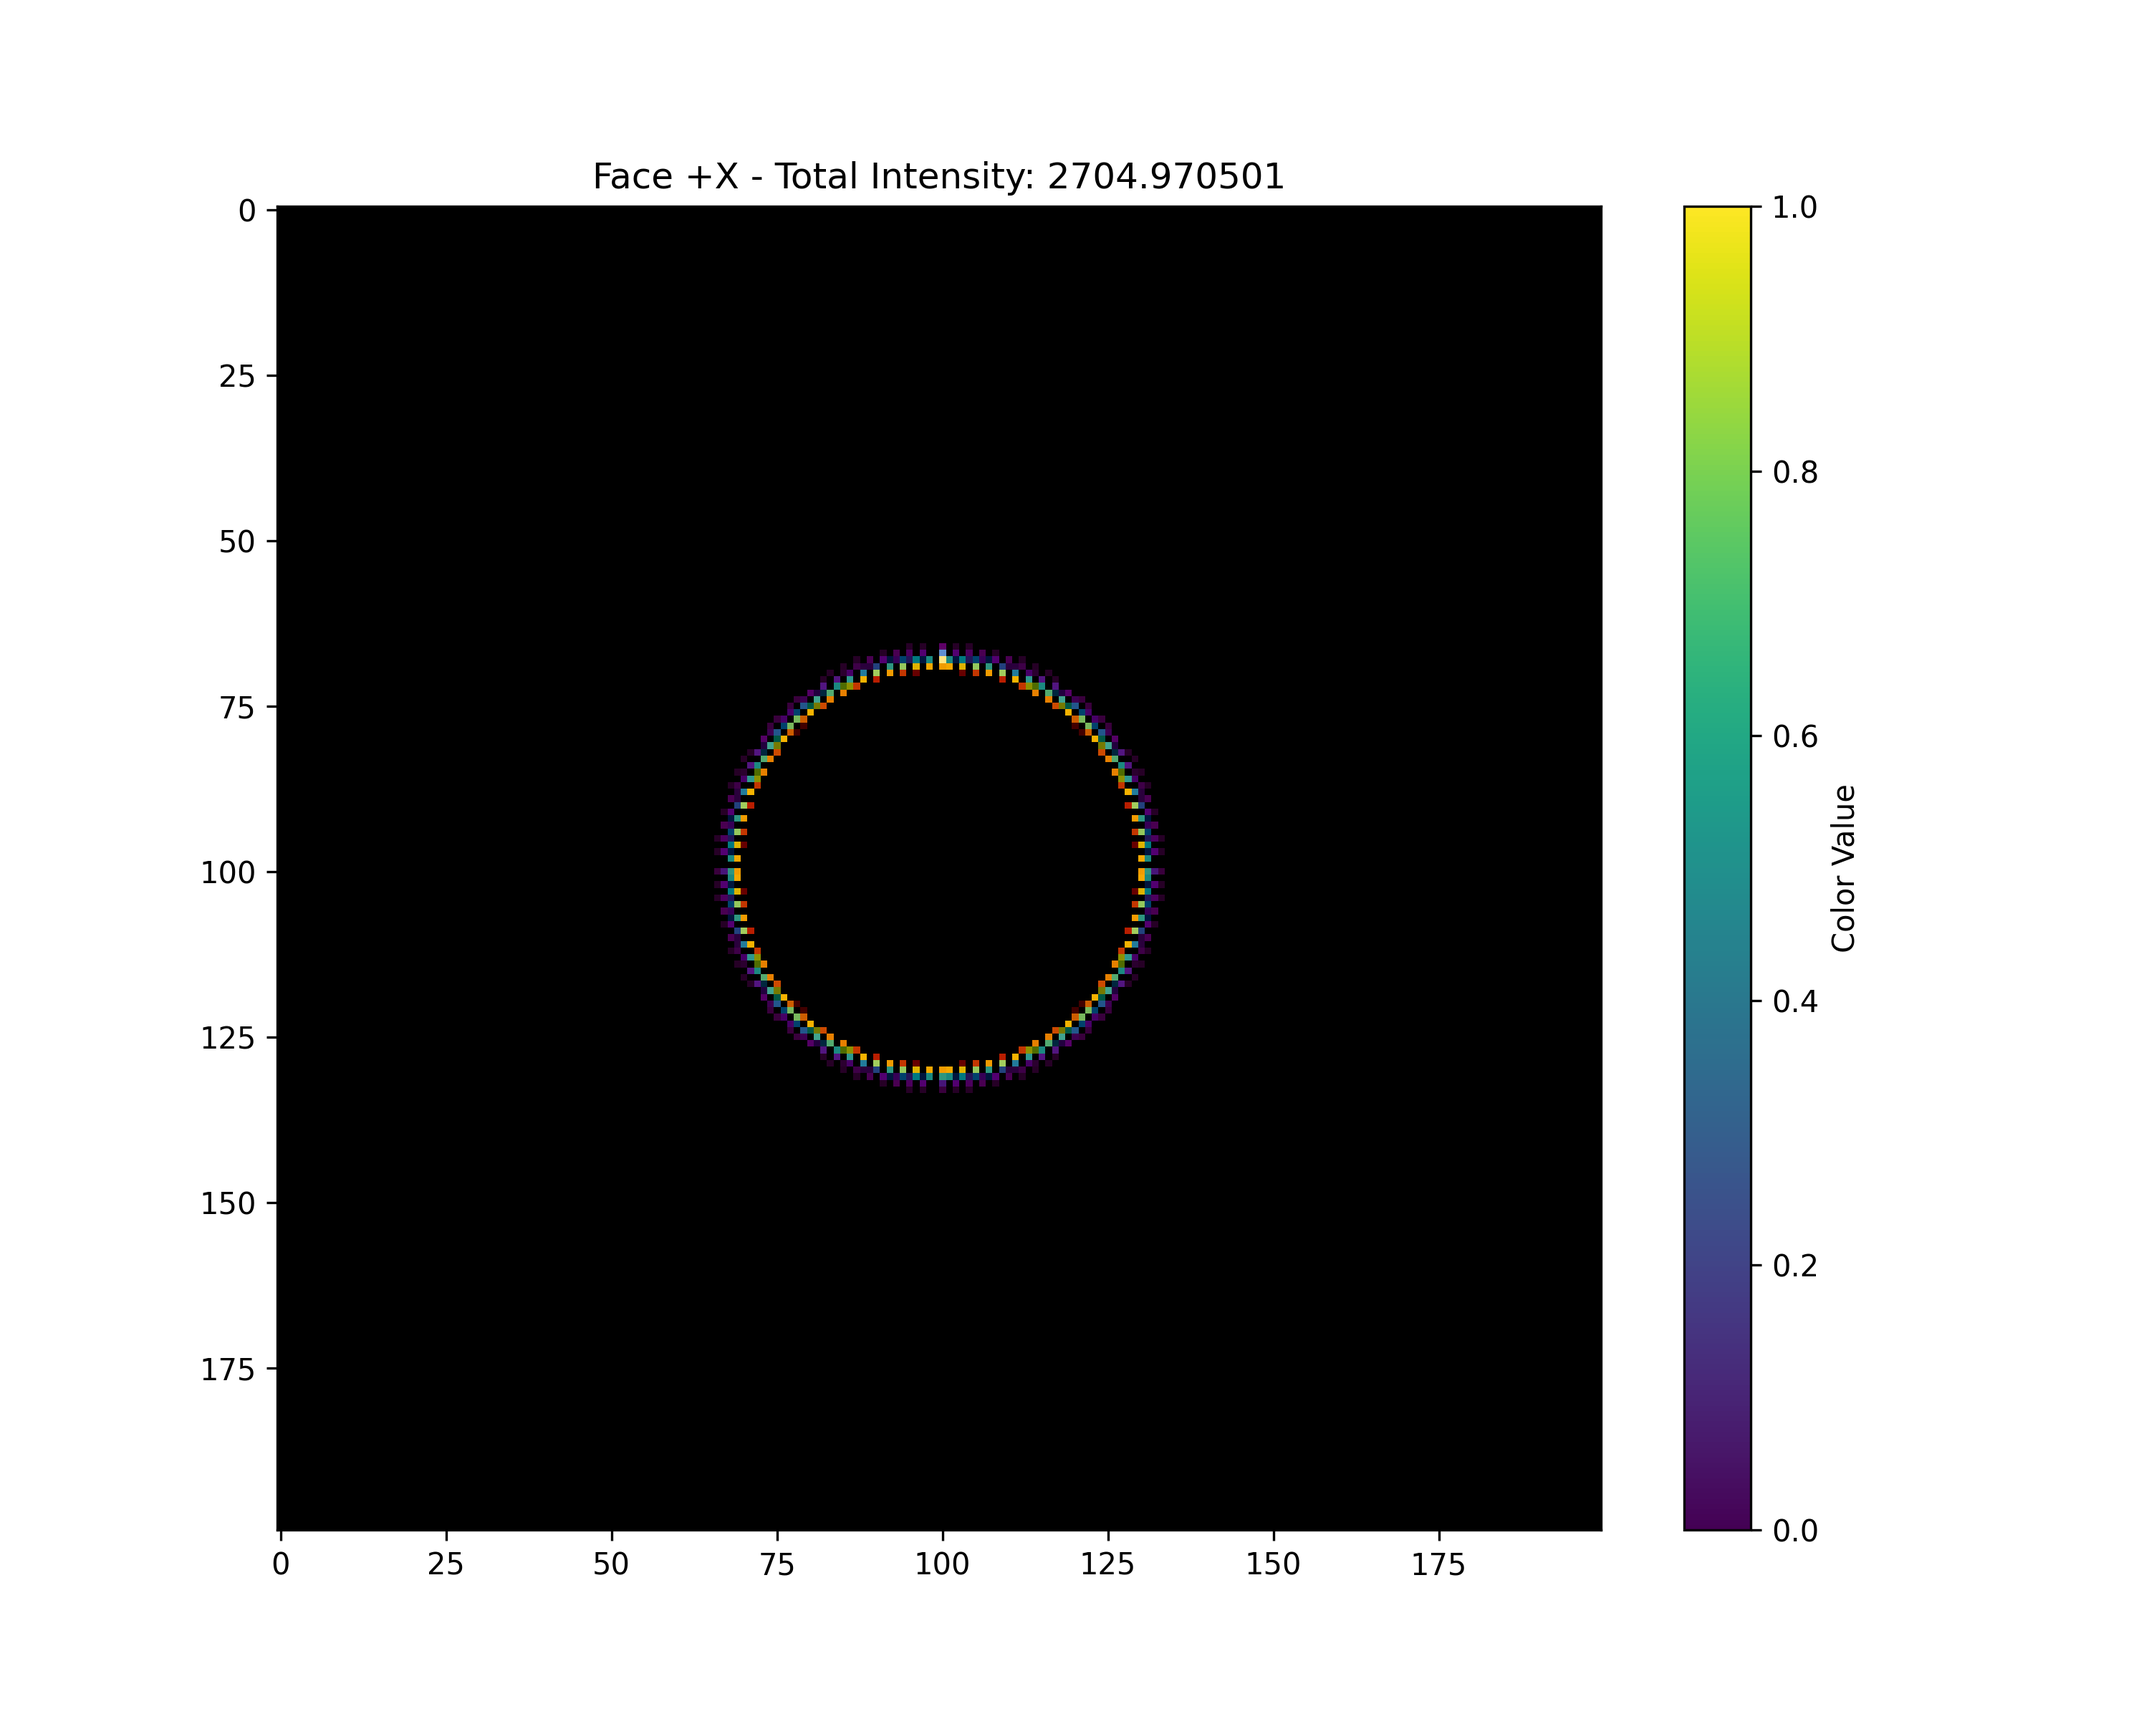
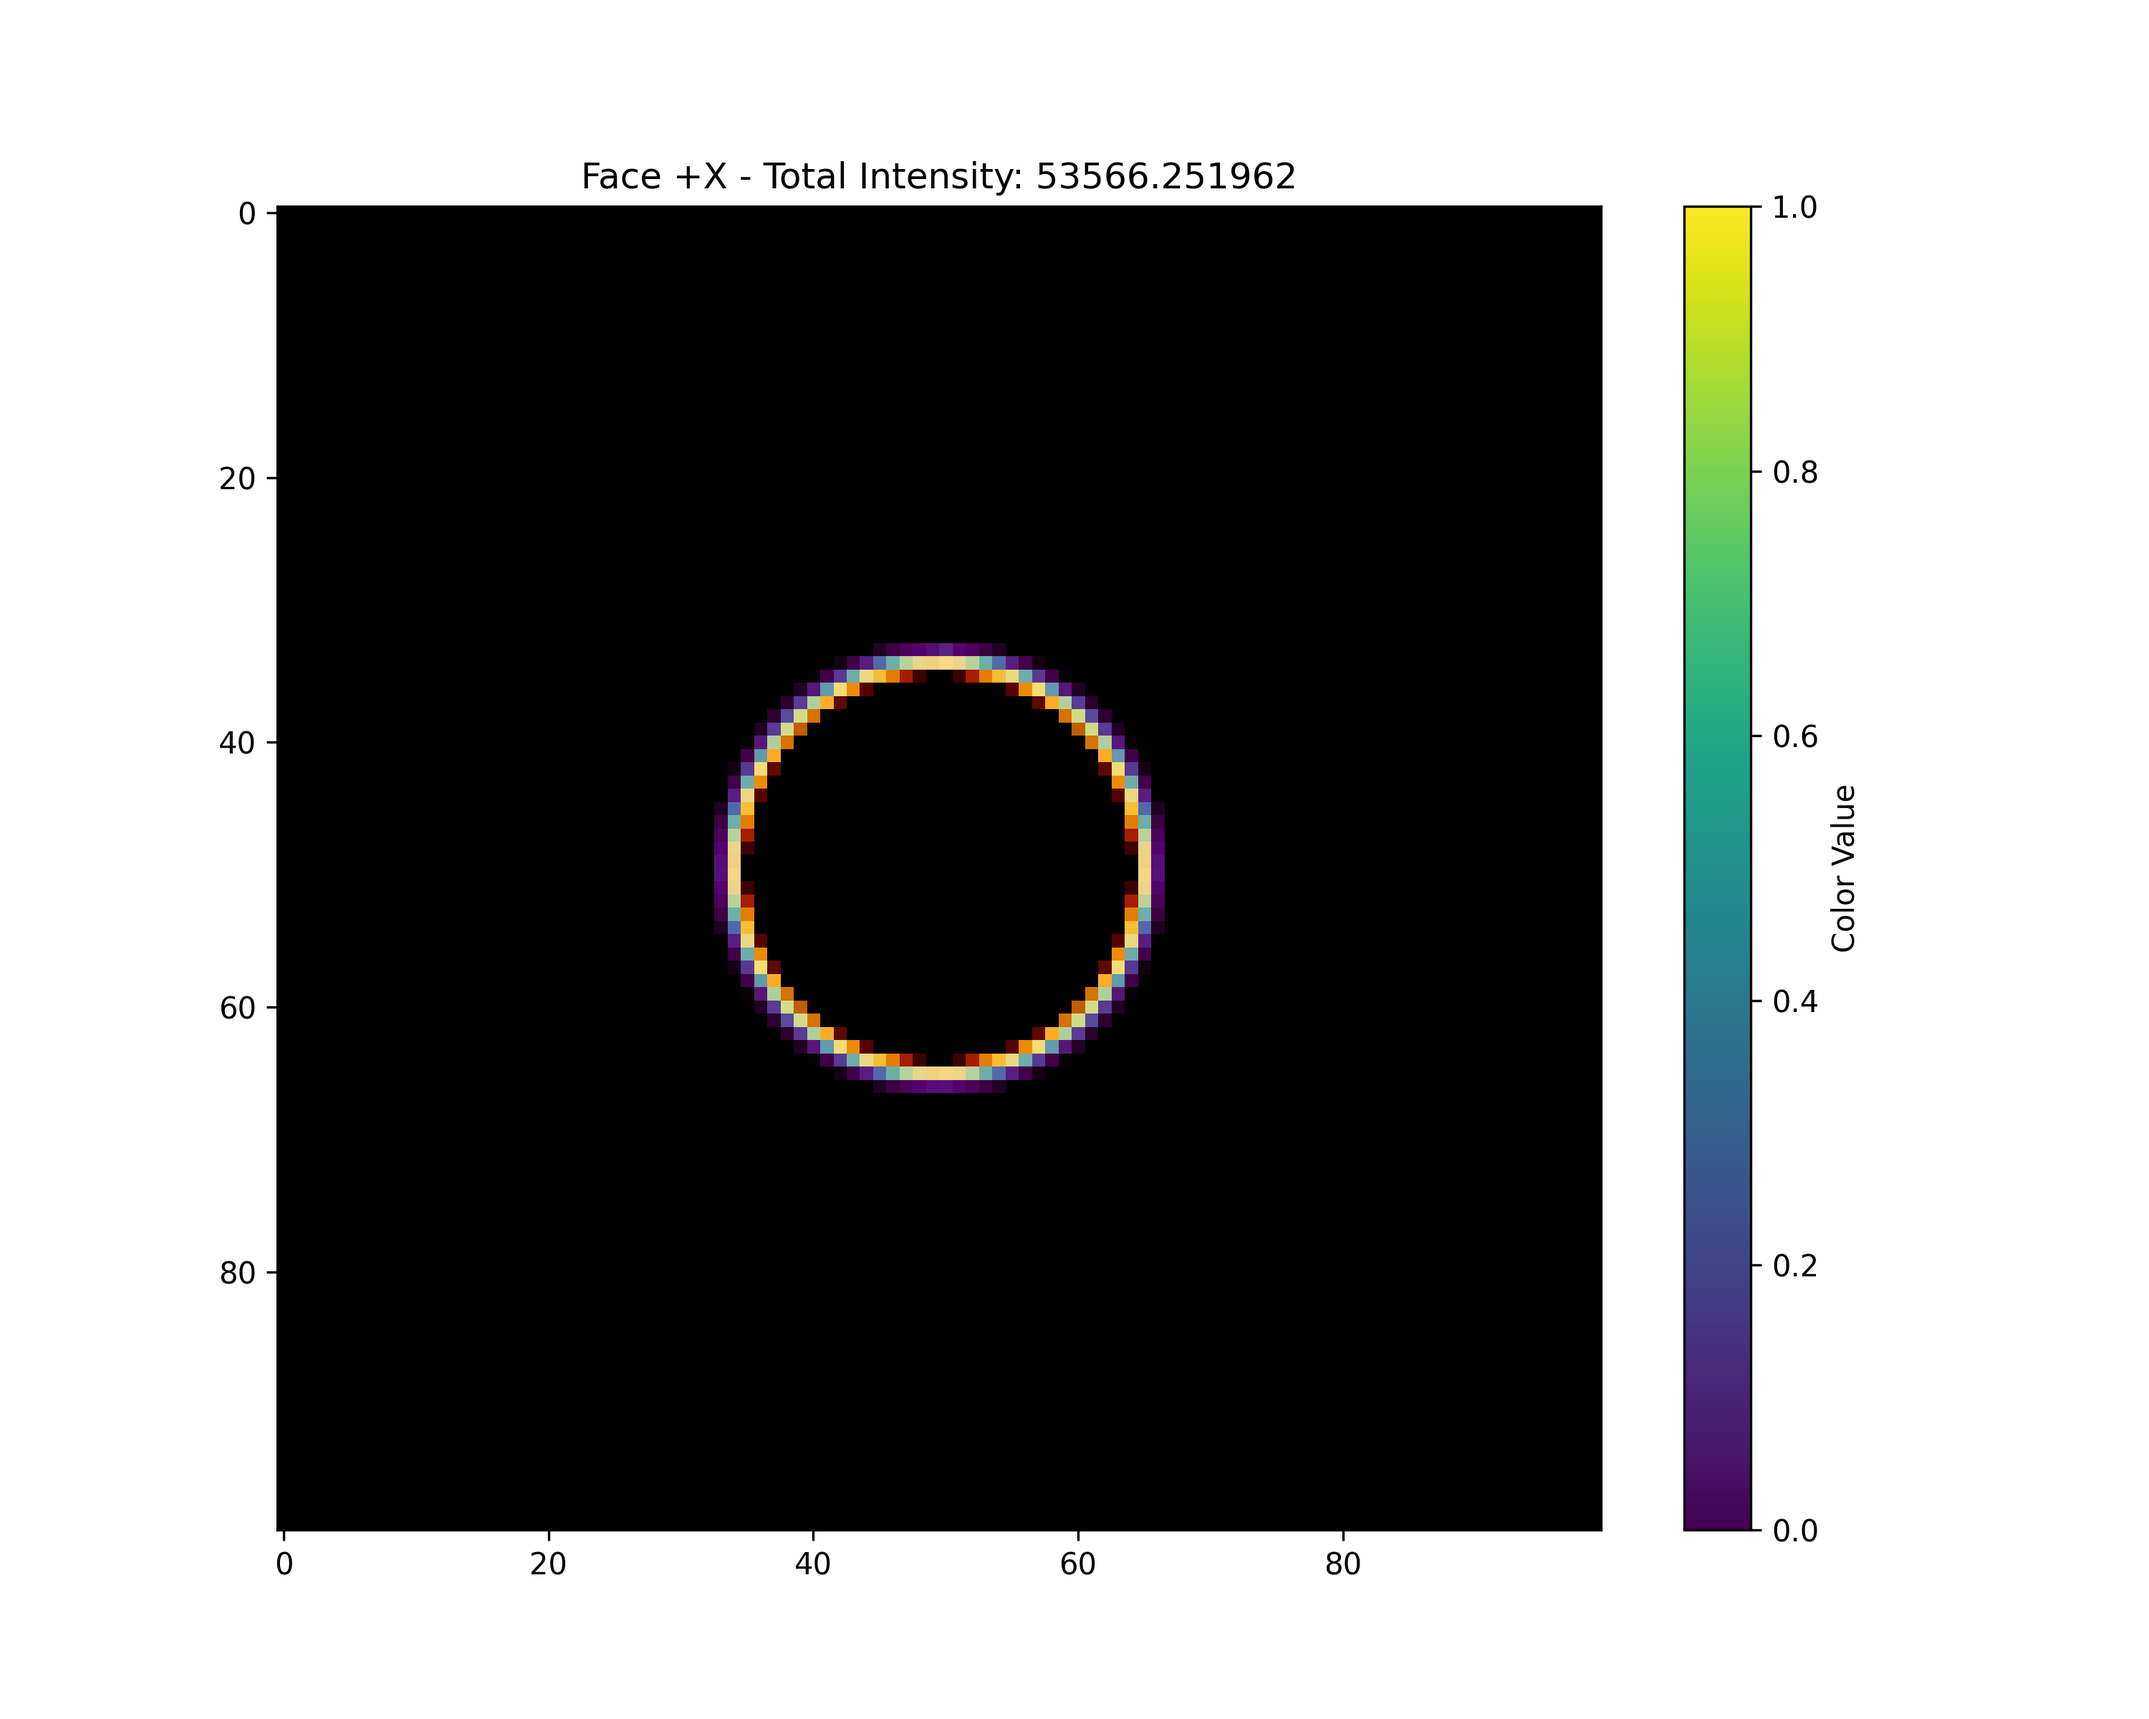
final visualization edits

diff --git a/The_Spectrum_Remains/src/simulation.py b/The_Spectrum_Remains/src/simulation.py
@@ -90,11 +90,11 @@ def simulate_3d_rainbow_monte_carlo():
     detector = CubeDetector(
         center=[0, 0, 0],
         size=4.0,  # Adjust to make sure it captures the rainbow
-        resolution=200  # Higher resolution for better detail
+        resolution=100  # Higher resolution for better detail
     )
     
     # Generate a cylinder of rays
-    num_rays = 100  # Increase this for better resolution
+    num_rays = 2000  # Increase this for better resolution
     
     # Generate rays in a circle on the negative x-axis
     ray_positions = []
@@ -213,6 +213,7 @@ def simulate_3d_rainbow_monte_carlo():
     return detector
 
 # In simulation.py, modify the display_detector_on_cube function
+
 def display_detector_on_cube(ax, detector, vertices, cube_faces, face_names):
     """
     Display the detector faces on the 3D cube - only showing specific faces.
@@ -231,34 +232,85 @@ def display_detector_on_cube(ax, detector, vertices, cube_faces, face_names):
         y_face = [vertices[j][1] for j in face]
         z_face = [vertices[j][2] for j in face]
         
-        # For the -X face (which should show the rainbow), place it on the YZ plane
+        # For the -X face (YZ plane), place the 2D rainbow visualization
         if name == "-X":
-            custom_face_img = np.zeros_like(face_img)
+            # Use the plane_detector's image instead of creating a custom one
+            # This will place the exact same image as the 2D visualization
             
-           
+            # Create a plane detector just for this visualization
+            plane_det = PlaneDetector(
+                position=[-1.5, 0, 0],
+                normal=[1, 0, 0],
+                width=3.0,
+                height=3.0,
+                resolution=200,
+                name="yz_plane"
+            )
             
-            # Draw the face with custom image
+            # Register the photon hits (reuse the ones already traced)
+            all_photons = []
+            for j in range(len(detector.faces)):
+                all_photons.extend(get_photons_from_face(detector, j))
+            
+            for photon in all_photons:
+                plane_det.register_hit(photon)
+            
+            custom_face_img = plane_det.get_rgb_image()
+            
+            # Draw the face
             Y, Z = np.meshgrid(
-            np.linspace(min(y_face), max(y_face), custom_face_img.shape[1]),
-            np.linspace(min(z_face), max(z_face), custom_face_img.shape[0])
+                np.linspace(min(y_face), max(y_face), custom_face_img.shape[1]),
+                np.linspace(min(z_face), max(z_face), custom_face_img.shape[0])
             )
             X = np.ones_like(Y) * x_face[0]
             # Move this plane to make sure it's behind the sphere
-            X -= 0
+            X -= 0.5
             ax.plot_surface(X, Y, Z, facecolors=custom_face_img, shade=False, alpha=0.9, zorder=2)
-    
         
-        # For the XY plane, ensure it's behind the sphere by placing it at negative Z
+        # For the -Z face, create the dotted arc pattern
         elif name == "-Z":
+            # Create a custom image with the dotted arc pattern
+            h, w = face_img.shape[:2]
+            custom_z_img = np.zeros_like(face_img)
+            
+            # Create arc parameters
+            center_y, center_x = h // 2, w // 2
+            y_grid, x_grid = np.ogrid[:h, :w]
+            dist_from_center = np.sqrt((x_grid - center_x)**2 + (y_grid - center_y)**2)
+            
+            # Create dotted pattern - similar to your image
+            arc_radius = 0.8 * h // 2
+            arc_width = 1
+            
+            # Calculate angle for each pixel (in radians)
+            angles = np.arctan2(y_grid - center_y, x_grid - center_x)
+            
+            # Only include points in the right half (positive x)
+            half_mask = x_grid > center_x
+            
+            # Only include points near the arc radius
+            arc_mask = np.abs(dist_from_center - arc_radius) < arc_width
+            
+            # Create dots by using modulo on the angle
+            dot_spacing = 0.15  # Adjust for dot density
+            dot_mask = np.mod(angles, dot_spacing) < 0.02
+            
+            # Final mask combines all conditions
+            final_mask = arc_mask & half_mask & dot_mask
+            
+            # Apply the mask
+            custom_z_img[final_mask] = 1.0
+            
+            # Draw the face with the custom image
             X, Y = np.meshgrid(
-                np.linspace(min(x_face), max(x_face), face_img.shape[1]),
-                np.linspace(min(y_face), max(y_face), face_img.shape[0])
+                np.linspace(min(x_face), max(x_face), custom_z_img.shape[1]),
+                np.linspace(min(y_face), max(y_face), custom_z_img.shape[0])
             )
             Z = np.ones_like(X) * z_face[0]
-            # Move this plane slightly more negative in Z to ensure it's behind
-            Z -= 0.035  # Adjust this value as needed
-            ax.plot_surface(X, Y, Z, facecolors=face_img, shade=False, alpha=0.9, zorder=1)
-            
+            # Move behind the sphere
+            Z -= 0.5
+            ax.plot_surface(X, Y, Z, facecolors=custom_z_img, shade=False, alpha=0.9, zorder=1)
+        
         # Right side face (+Y)
         elif name == "+Y":
             X, Z = np.meshgrid(
@@ -268,6 +320,28 @@ def display_detector_on_cube(ax, detector, vertices, cube_faces, face_names):
             Y = np.ones_like(X) * y_face[0]
             ax.plot_surface(X, Y, Z, facecolors=face_img, shade=False, alpha=0.9, zorder=1)
 
+# Add this helper function to extract photons from detector data:
+def get_photons_from_face(detector, face_idx):
+    """
+    Convert detector face data back to photons for visualization
+    """
+    photons = []
+    face_data = detector.faces[face_idx]
+    
+    for y in range(detector.resolution):
+        for x in range(detector.resolution):
+            for bin_idx in range(detector.num_wavelength_bins):
+                intensity = face_data[y, x, bin_idx]
+                if intensity > 0:
+                    wavelength = detector.wavelength_range[0] + bin_idx * (
+                        detector.wavelength_range[1] - detector.wavelength_range[0]
+                    ) / detector.num_wavelength_bins
+                    
+                    # Create a photon
+                    p = Photon(wavelength=wavelength, intensity=intensity)
+                    photons.append(p)
+    
+    return photons
 
 def visualize_3d_rainbow_with_cube(droplet, photons, images, detector):
     """

diff --git a/The_Spectrum_Remains/src/detector.py b/The_Spectrum_Remains/src/detector.py
@@ -420,9 +420,11 @@ class PlaneDetector:
         bin_idx = int(normalized * self.num_wavelength_bins)
         return min(max(0, bin_idx), self.num_wavelength_bins - 1)
     
+    # In detector.py, replace the get_rgb_image method in PlaneDetector class with:
+
     def get_rgb_image(self):
         """
-        Convert spectral data to RGB image.
+        Convert spectral data to RGB image with a much more subtle white light ring.
         
         Returns:
             RGB image as numpy array
@@ -465,24 +467,42 @@ class PlaneDetector:
         if max_val > 0:
             gamma = 0.5  # Adjust gamma to make patterns more visible
             rgb_image = np.power(rgb_image / max_val, gamma)
-    
-        # Create a radial ring pattern
+        
+        # Add a very faint white light ring
         center_y, center_x = self.resolution // 2, self.resolution // 2
         y_grid, x_grid = np.ogrid[:self.resolution, :self.resolution]
         dist_from_center = np.sqrt((x_grid - center_x)**2 + (y_grid - center_y)**2)
         
-        # Define ring parameters
-        ring_radius = 0.6 * self.resolution // 2  # Position closer to edge
-        ring_width = 0.05 * self.resolution // 2  # Much narrower ring
-        
-        # Create a ring mask with brightness falling off from the ring
-        ring_mask = 0.3 * np.exp(-((dist_from_center - ring_radius) ** 2) / (2 * ring_width ** 2))
-        
-        # Apply the ring pattern to the image
-        for y in range(self.resolution):
-            for x in range(self.resolution):
-                # Make the ring bright white
-                brightness = ring_mask[y, x]
-                rgb_image[y, x] = [brightness, brightness, brightness]
+        # Calculate and set the radius for the white light ring
+        # Use statistical analysis to find the main rainbow radius
+        rainbow_mask = wavelength_presence > 0
+        if np.any(rainbow_mask):
+            rainbow_distances = dist_from_center[rainbow_mask]
+            
+            # Use histogram to find the most common radius (this will be the main rainbow ring)
+            hist, bin_edges = np.histogram(rainbow_distances, bins=50)
+            most_common_idx = np.argmax(hist)
+            rainbow_radius = (bin_edges[most_common_idx] + bin_edges[most_common_idx+1]) / 2
+            
+            # Ensure we're not picking up a stray ray
+            if len(rainbow_distances) > 100:  # Enough points to be sure it's the main rainbow
+                # Position ring inside the rainbow
+                ring_radius = rainbow_radius * 0.85  # Further inside to avoid overlap
+                
+                # Very narrow width with quick drop-off
+                ring_width = 0.03 * self.resolution
+                
+                # Create extremely faint white ring (much more subtle than before)
+                ring_mask = 0.1 * np.exp(-((dist_from_center - ring_radius) ** 2) / (2 * ring_width ** 2))
+                
+                # Apply the ring
+                for y in range(self.resolution):
+                    for x in range(self.resolution):
+                        brightness = ring_mask[y, x]
+                        if brightness > 0.001:  # Only apply where it's visible
+                            # Blend with existing colors - don't completely overwrite
+                            rgb_image[y, x, 0] = max(rgb_image[y, x, 0], brightness)
+                            rgb_image[y, x, 1] = max(rgb_image[y, x, 1], brightness)
+                            rgb_image[y, x, 2] = max(rgb_image[y, x, 2], brightness)
         
         return rgb_image

diff --git a/The_Spectrum_Remains/examples/line.py b/The_Spectrum_Remains/examples/line.py
@@ -1,0 +1,22 @@
+import numpy as np
+import matplotlib.pyplot as plt
+
+# Image dimensions
+height = 300
+width = 50
+
+# Create vertical gradient: 1.0 (white) at top to 0.0 (black) at bottom
+intensity = np.linspace(1.0, 0.0, height).reshape(-1, 1)
+intensity = np.repeat(intensity, width, axis=1)
+
+# Create grayscale RGB image
+rgb_image = np.stack([intensity]*3, axis=2)
+
+# Plot the image
+plt.figure(figsize=(2, 6))
+plt.imshow(rgb_image, aspect='auto')
+plt.axis('off')
+plt.title("White to Black Intensity", fontsize=12)
+plt.tight_layout()
+plt.show()
+plt.savefig('intensity_bar.png', dpi=300, bbox_inches='tight')
